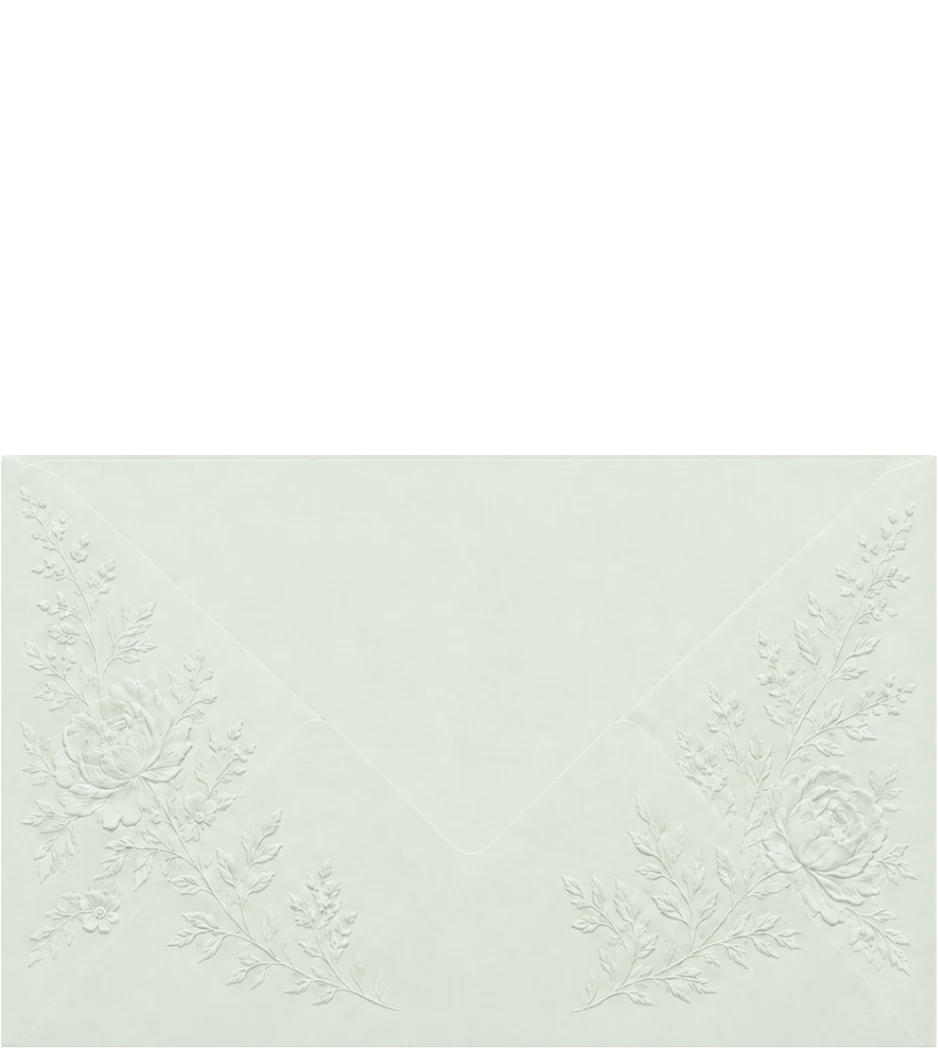
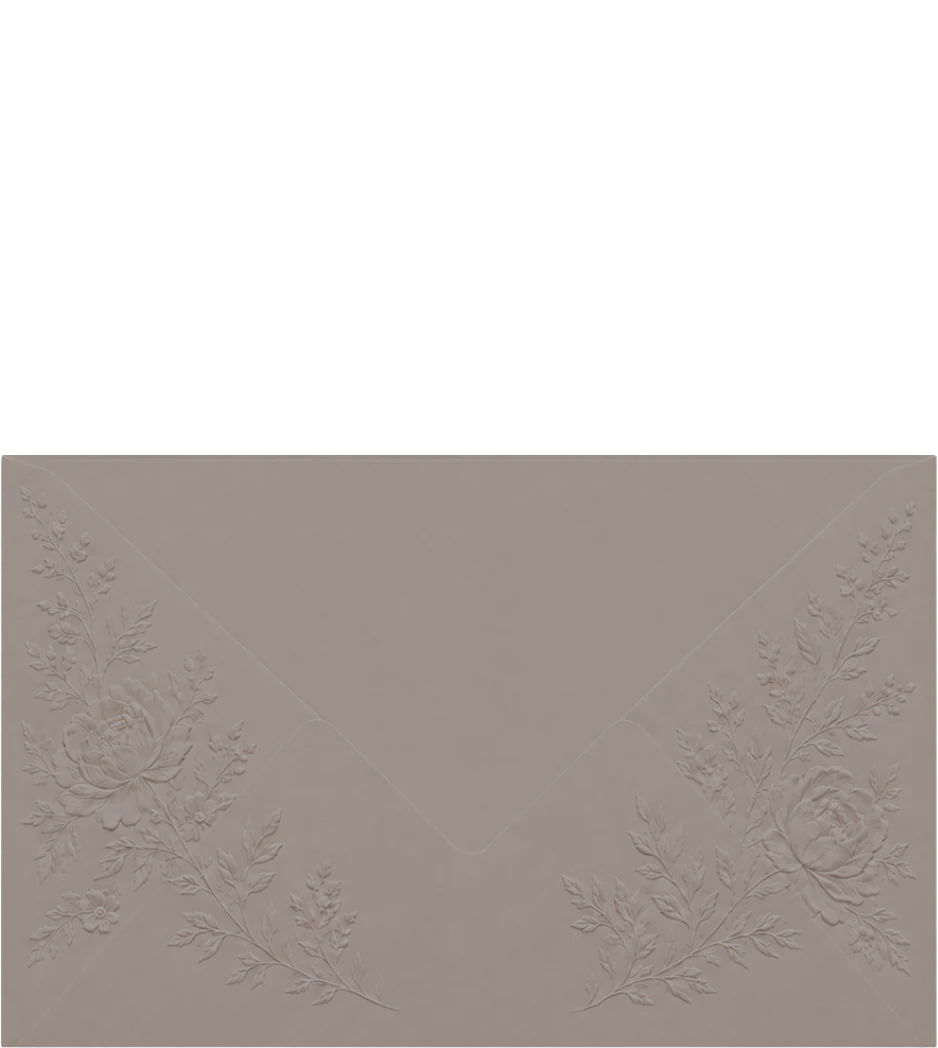
Set the envelope to #9c8f88
Derived as before: hue 21deg, saturation x0.597, value x0.645 of the blush
original. Lands exactly on #9c8f88 — a warm taupe rather than a green.
Bump the envelope URLs to ?v=7.

Stop re-picking the hint colour every time the envelope moves. It sits on
the envelope on phones, and the right colour has flipped with each shade —
sage on a pale one, ink on a mid one, white on a dark one, and the taupe
drops the current sage to 2.1:1. So the rule no longer suits itself to the
current envelope: ink carries a pale or mid tone, and a pale halo lifts it
off a darker one. Ink alone measures 8.9:1 down to 3.0:1 across every
colour tried so far, and the halo covers the bottom of that range.

diff --git a/css/save-the-date.css b/css/save-the-date.css
@@ -204,16 +204,16 @@ body.is-ready .petals { opacity: 1; }
    move it up to .stage, which owns the perspective. */
 .env__back  {
   z-index: 1;
-  background-image: image-set(url(../assets/env-back.webp?v=6)  type("image/webp"), url(../assets/env-back.png?v=6)  type("image/png"));
+  background-image: image-set(url(../assets/env-back.webp?v=7)  type("image/webp"), url(../assets/env-back.png?v=7)  type("image/png"));
   filter: drop-shadow(0 7px 14px rgba(84, 64, 58, 0.26));
 }
-.env__front { z-index: 3; background-image: image-set(url(../assets/env-front.webp?v=6) type("image/webp"), url(../assets/env-front.png?v=6) type("image/png")); }
+.env__front { z-index: 3; background-image: image-set(url(../assets/env-front.webp?v=7) type("image/webp"), url(../assets/env-front.png?v=7) type("image/png")); }
 
 /* The flap is authored in the OPEN (up) position; flipped down about its hinge
    (y≈43.4% of the piece) it covers the pocket = closed. One image, both faces. */
 .env__flap {
   z-index: 4;
-  background-image: image-set(url(../assets/env-flap.webp?v=6) type("image/webp"), url(../assets/env-flap.png?v=6) type("image/png"));
+  background-image: image-set(url(../assets/env-flap.webp?v=7) type("image/webp"), url(../assets/env-flap.png?v=7) type("image/png"));
   transform-origin: 50% 43.4%;
   /* the translateY is identity here, but it keeps the function list the same in
      all three states (closed / open / sliding) so each transition interpolates
@@ -489,11 +489,16 @@ body.is-ready .petals { opacity: 1; }
      would do nothing, and centred keeps the clasped hands in the middle. */
   .std__photo-img { object-position: center center; }
 
-  /* NOTE: "tap to open" needs no override here. On phones the envelope covers the
-     screen so the hint sits on it, and while the envelope was dark that forced a
-     light colour — but at this pale a tone the base sage reads 5.2:1 against the
-     envelope AND against the cream backdrop landscape shows it on. One colour now
-     serves both, so the override is gone rather than inverted again. */
+  /* "Tap to open" sits ON the envelope here, since the envelope covers the screen.
+     The envelope's tone has now changed several times and the right colour flipped
+     with it each time — sage on a pale one, ink on a mid one, white on a dark one.
+     So this doesn't pick a colour to suit the current envelope: ink carries a pale
+     or mid tone, and the pale halo lifts it off a darker one. It holds across the
+     whole range without being revisited on the next recolour. */
+  .opener__hint-text {
+    color: var(--ink);
+    text-shadow: 0 0 7px rgba(255, 255, 255, 0.9), 0 1px 2px rgba(255, 255, 255, 0.85);
+  }
 
   /* TYPE STEPS UP. Every size on the card is in cqw, i.e. relative to the card's
      WIDTH — and a phone card is ~390px where a monitor's is ~620px, so the scale

diff --git a/save-the-date.html b/save-the-date.html
@@ -41,7 +41,7 @@
   <!-- Bespoke save-the-date theme (mirrors the locked sage + blush palette).
        The ?v= query is a cache buster — bump it whenever the CSS or JS changes so
        browsers pick the new file up without a hard refresh. -->
-  <link rel="stylesheet" href="css/save-the-date.css?v=37" />
+  <link rel="stylesheet" href="css/save-the-date.css?v=38" />
 
   <!-- No-JS fallback: hide the envelope pieces so the sandwiched letter shows. -->
   <noscript>

diff --git a/README.md b/README.md
@@ -34,7 +34,7 @@ wedding stationery and to be hosted for free on **GitHub Pages**.
 
 - **`index.html`** — the full site: story, itinerary, locations, RSVP, FAQ.
 - **`save-the-date.html`** — a cinematic *save-the-date* on **one non-scrolling
-  screen**. Guests land on the couple's **own pale sage floral envelope, sized full
+  screen**. Guests land on the couple's **own taupe floral envelope, sized full
   bleed**: it's deliberately oversized so its body covers the whole viewport — edge
   to edge on a desktop, and on a phone a **deep zoom that leaves only the middle of
   the envelope on screen**. The envelope is built from three layered pieces
@@ -177,7 +177,7 @@ Until then, treat any "submitted" RSVP as **not recorded**.
   cropped to a shared coordinate space and compressed for the web. No third-party
   license applies.
 
-  They were supplied in **blush** and have been **recoloured to a pale sage** (`#dfe6da`).
+  They were supplied in **blush** and have been **recoloured to a warm taupe** (`#9c8f88`).
   The embossing is carried entirely in luminance, so the recolour pins the hue and
   rescales saturation and value, leaving every petal and fern untouched. The blush
   originals are in git history if they're ever wanted back. The envelope URLs carry
